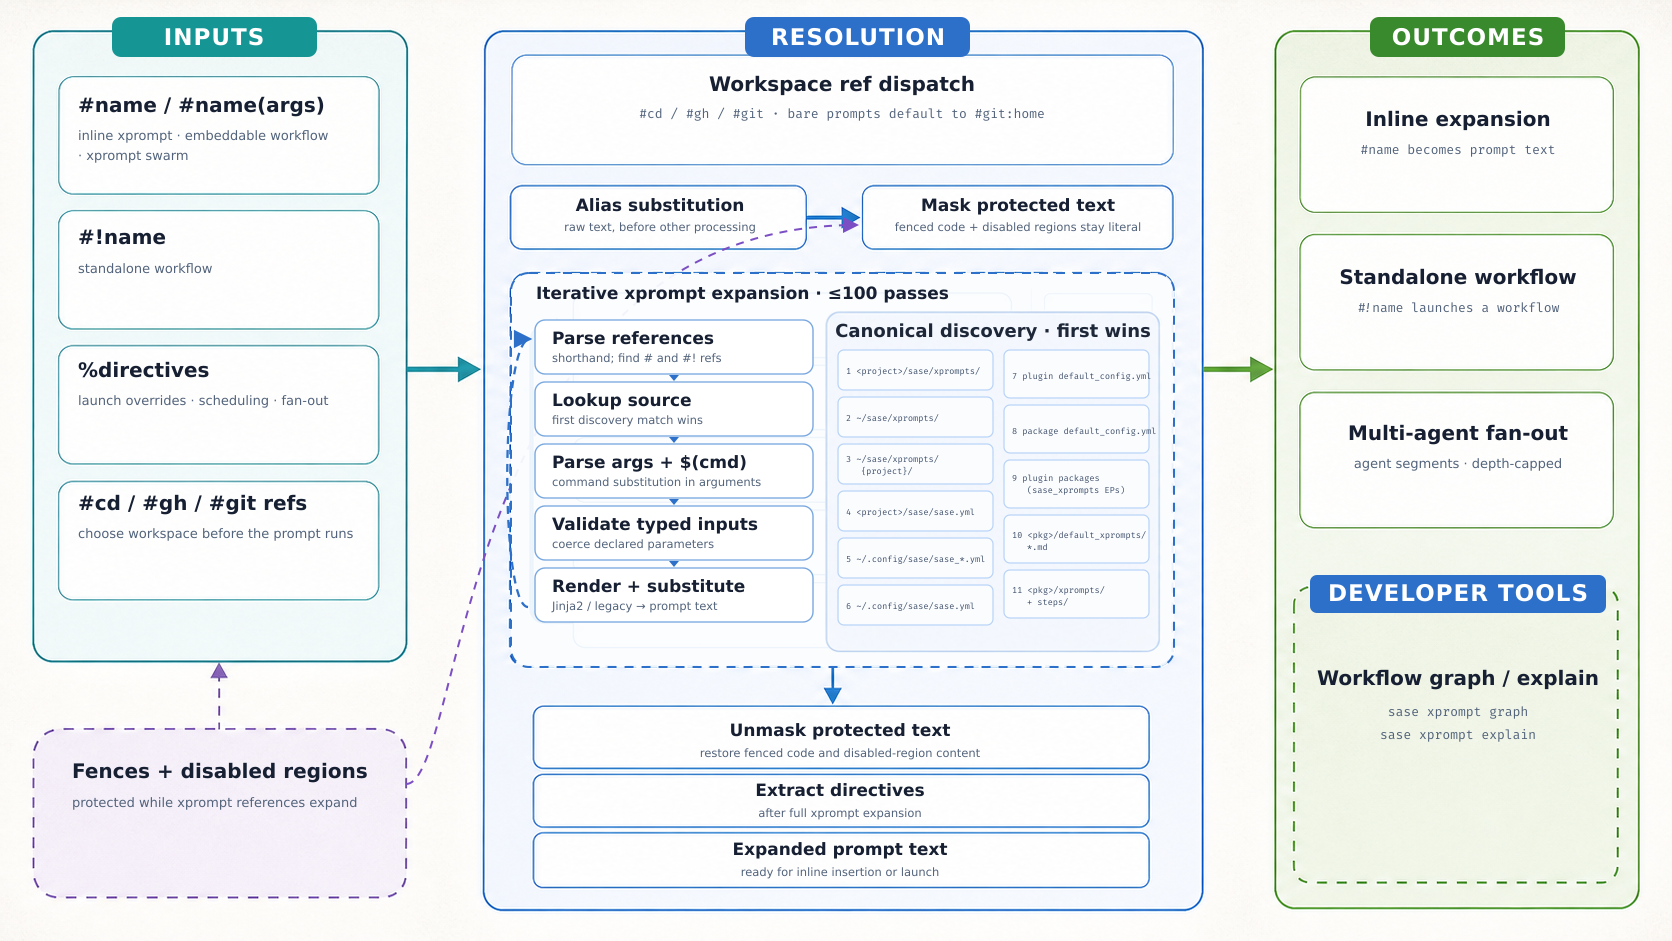
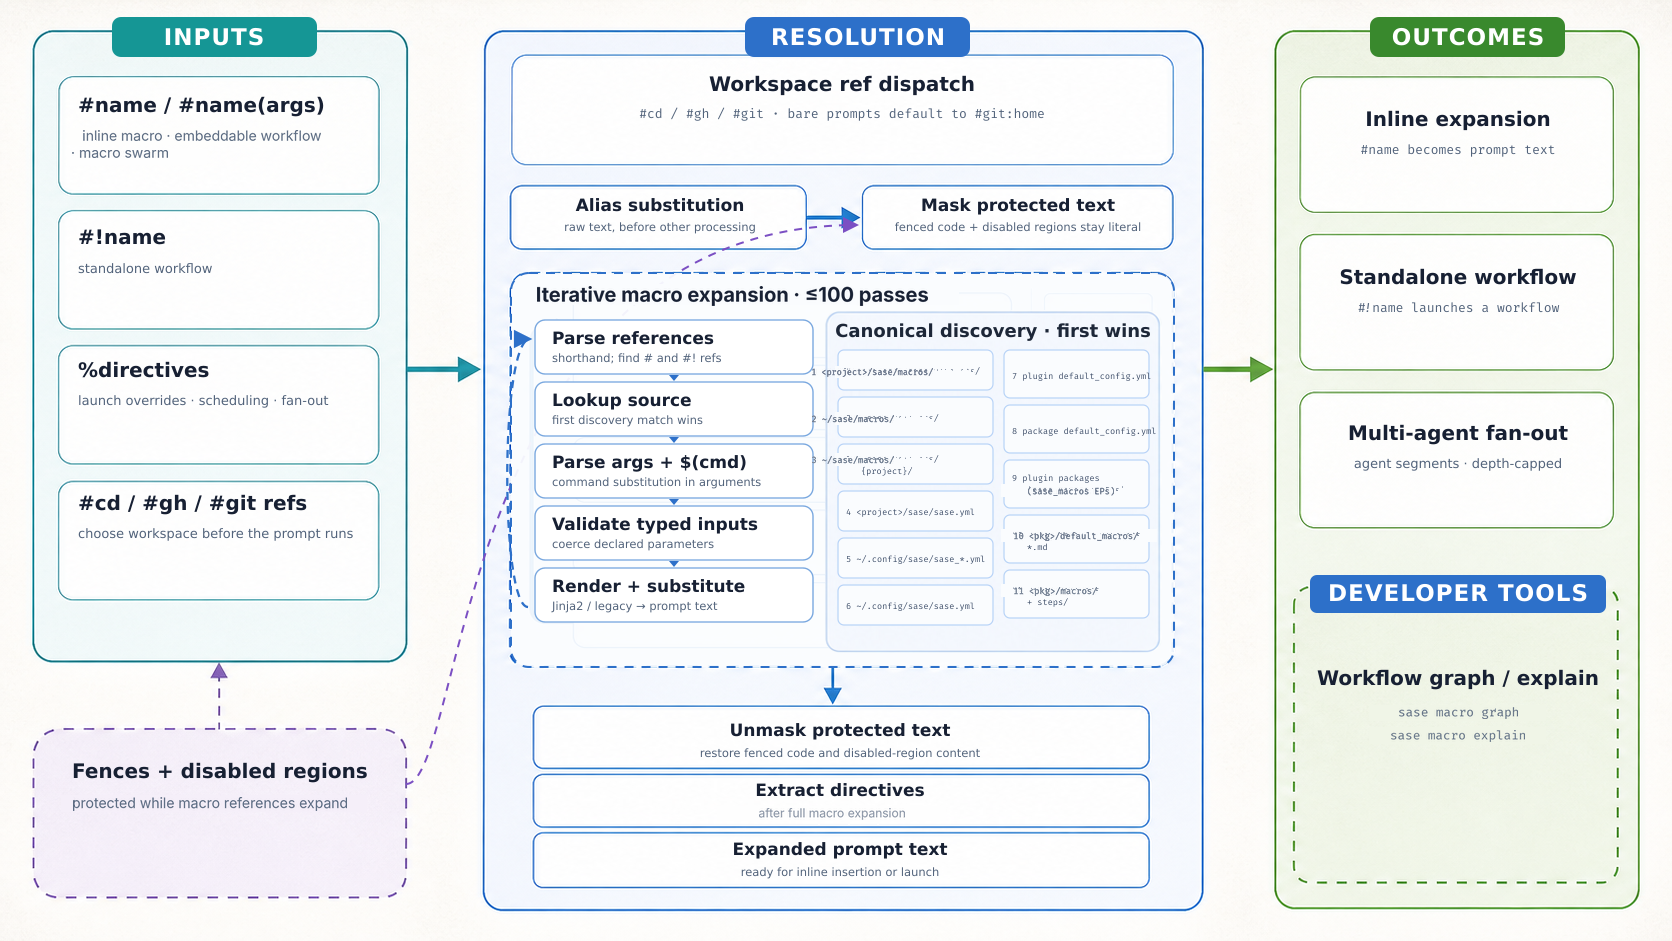
docs(images): relabel macro-resolution infographic from retired xprompt spelling to macro
SASE_BEAD=[sase-1eq.12.3][1]
SASE_TYPE=stitch
SASE_AGENT=[bbugyi200.athena.sase-1eq.12.3][2]

[1]: https://github.com/sase-org/sase--beads/blob/main/pages/sase-1eq/sase-1eq.12.3.md
[2]: https://github.com/sase-org/sase--agents/blob/main/sessions/bbugyi200.athena.sase-1eq.12.3.md

diff --git a/docs/images/macro-resolution-infographic.prompt.md b/docs/images/macro-resolution-infographic.prompt.md
@@ -84,6 +84,41 @@ The deterministic label groups are:
   fan-out, and a visually separate developer-tools card for `sase macro graph` /
   `sase macro explain`.
 
+## Macro-Spelling Relabel (Deterministic Overlay)
+
+All 13 retired-spelling labels were replaced in place with macro-spelling text taken
+from the current `docs/macros.md` (Discovery Order table, `sase macro graph` /
+`sase macro explain` spellings), preserving position, size, weight, numbering, and the
+original `<pkg>` abbreviation of `<sase_package>`. Canvas kept at 1672×941 sRGB.
+
+- Inputs: `inline xprompt · embeddable workflow` → `inline macro · embeddable workflow`;
+  `· xprompt swarm` → `· macro swarm`.
+- Iterative title: `Iterative xprompt expansion · ≤100 passes` →
+  `Iterative macro expansion · ≤100 passes`.
+- Discovery rows: `1 <project>/sase/xprompts/` → `1 <project>/sase/macros/`;
+  `2 ~/sase/xprompts/` → `2 ~/sase/macros/`; `3 ~/sase/xprompts/{project}/` →
+  `3 ~/sase/macros/{project}/`; `(sase_xprompts EPs)` → `(sase_macros EPs)`;
+  `10 <pkg>/default_xprompts/` → `10 <pkg>/default_macros/`; `11 <pkg>/xprompts/` →
+  `11 <pkg>/macros/`.
+- Fences callout: `protected while xprompt references expand` →
+  `protected while macro references expand`.
+- Extract line: `after full xprompt expansion` → `after full macro expansion`.
+- Devtools card: `sase xprompt graph` → `sase macro graph`; `sase xprompt explain` →
+  `sase macro explain`.
+
+Method: local-bg cover of each label's ink span (per-column neighbor-clipped fill,
+borders/arrows untouched), then single-draw full-line overlay rendered locally with PIL
+using Inter for prose/bold titles and Fira Code for paths/commands (matched to the
+committed raster by template comparison), tinted from each label's own darkest-core
+pixels. Verified: full-PNG OCR reports zero `xprompt` residuals (base reported 6), all
+pixel changes lie inside the 13 label windows, borders/arrows/loop intact:
+
+```bash
+magick patched.png -colorspace sRGB -strip \
+  docs/images/macro-resolution-infographic.png
+sha256sum docs/images/macro-resolution-infographic.png
+```
+
 ## Final Review
 
 - Full-resolution inspection confirmed legible labels, uncropped panels, high-contrast
@@ -93,4 +128,4 @@ The deterministic label groups are:
   runtime outcomes.
 - Every technical label was compared with the launch/expansion pipelines and canonical
   entries in the discovery table in `docs/macros.md`.
[2 lines of base64/hex data omitted]

diff --git a/docs/images/macro-resolution-infographic.critique.md b/docs/images/macro-resolution-infographic.critique.md
@@ -60,4 +60,4 @@ preserve the diagram's scan path at normal documentation width.
 - Renamed the inline outcome and visually demoted graph/explain to developer tooling.
 - Removed all legacy compatibility paths from the discovery panel.
 
[2 lines of base64/hex data omitted]
